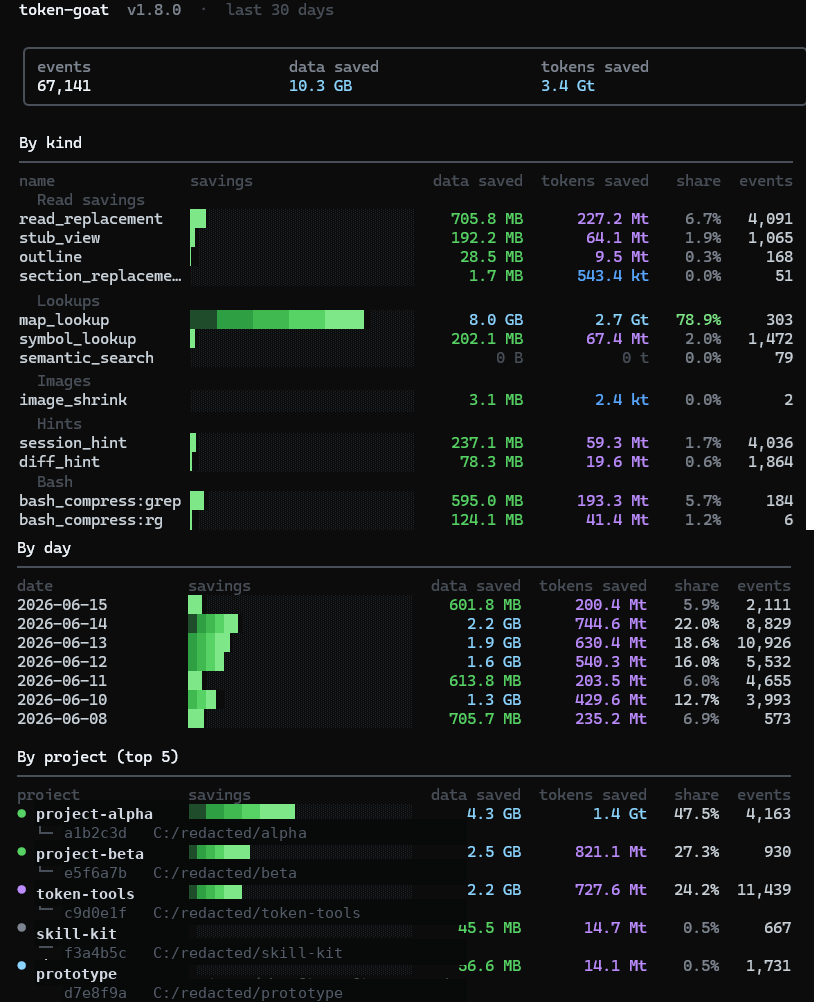
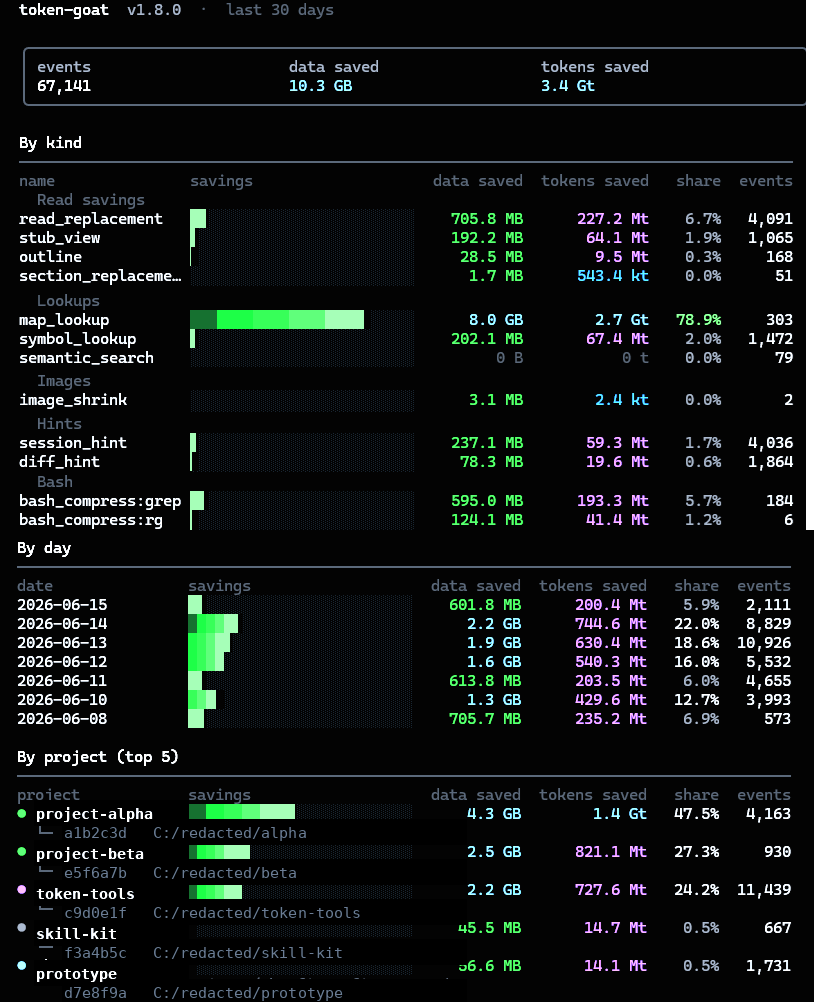
docs:

diff --git a/CHANGELOG.md b/CHANGELOG.md
@@ -4,6 +4,18 @@ All notable changes to Token-Goat are documented in this file. Format follows Ke
 
 ## [Unreleased]
 
+### Added
+
+- **`TerraformFilter` extended: `terraform show` compression and plan data-source detection.** `terraform show` output now strips noise attributes (id, arn, timeouts, tags blocks) per resource block and appends a suppression note, keeping only high-signal fields. `terraform plan` unchanged-block detection now covers data-source read-during-apply blocks in addition to managed-resource no-op blocks.
+
+- **`KubectlFilter` extended: event grouping and describe compression.** `kubectl events` output groups events by `REASON` with a per-group count and a field-selector hint. `kubectl describe` collapses label and annotation blocks to line counts, preserves the Conditions table in full, and retains container resource (requests/limits) fields.
+
+- **`NpmInstallFilter` extended: warn collapsing and verbose line suppression.** General `npm warn` lines beyond the first 3 are collapsed to a suppression note. Verbose timing, sill, http, and verb lines are suppressed entirely. Braille spinner reify progress lines are stripped.
+
+### Fixed
+
+- **`TerraformFilter._compress_terraform_init` head/tail fallback.** When `terraform init` progress lines (e.g., `Installing plugin N`) did not match the provider-specific regex, all lines passed through unchanged. The method now applies head=5/tail=5 compression whenever `len(non_empty) > 12` after provider-line collapsing, matching the class docstring intent.
+
 ## [1.8.0] - 2026-06-13
 
 ### Added

diff --git a/README.md b/README.md
@@ -146,6 +146,11 @@ The fastest way to reduce AI token costs is fixing these five, not writing short
 | Git ops slow manifest build in non-repo dirs | `git diff` / `git log` calls skipped when `cwd` is not inside a git repo (saves 60–100 ms per hook fire) |
 | Test suite slow on multi-core machines | `pytest-xdist --dist=loadscope` + module-scoped fixtures for read-only groups; parallel workers cut wall time |
 | Flaky tests fail the whole run | `pytest-rerunfailures` auto-retries once before failing; `pytest-randomly` seeds expose order-dependent flakes |
+| `terraform init` downloads 30+ provider plugins | Provider install lines collapsed to a count note; generic progress lines head/tail compressed (5+5 kept); `Init complete!` preserved |
+| `terraform show` dumps a full resource block | Noise attributes (id, arn, timeouts, tags) stripped per resource block; high-signal fields kept with a suppression note |
+| `kubectl events` lists raw repetitive events | Events grouped by REASON with a per-group count; field-selector hint added to narrow scope |
+| `kubectl describe` floods labels and annotations | Labels/annotations blocks collapsed to line counts; Conditions table kept in full; container resource fields preserved |
+| `npm install` verbose output with sill/http/verb/spinner lines | Verbose timing, sill, http, verb lines suppressed; warn lines beyond first 3 collapsed; braille spinner reify lines dropped |
 
 > Three snapshots from the author's machine: **v0.1 after four hours**, **v1.8.0**, and the **current build after several days** of real sessions.
 